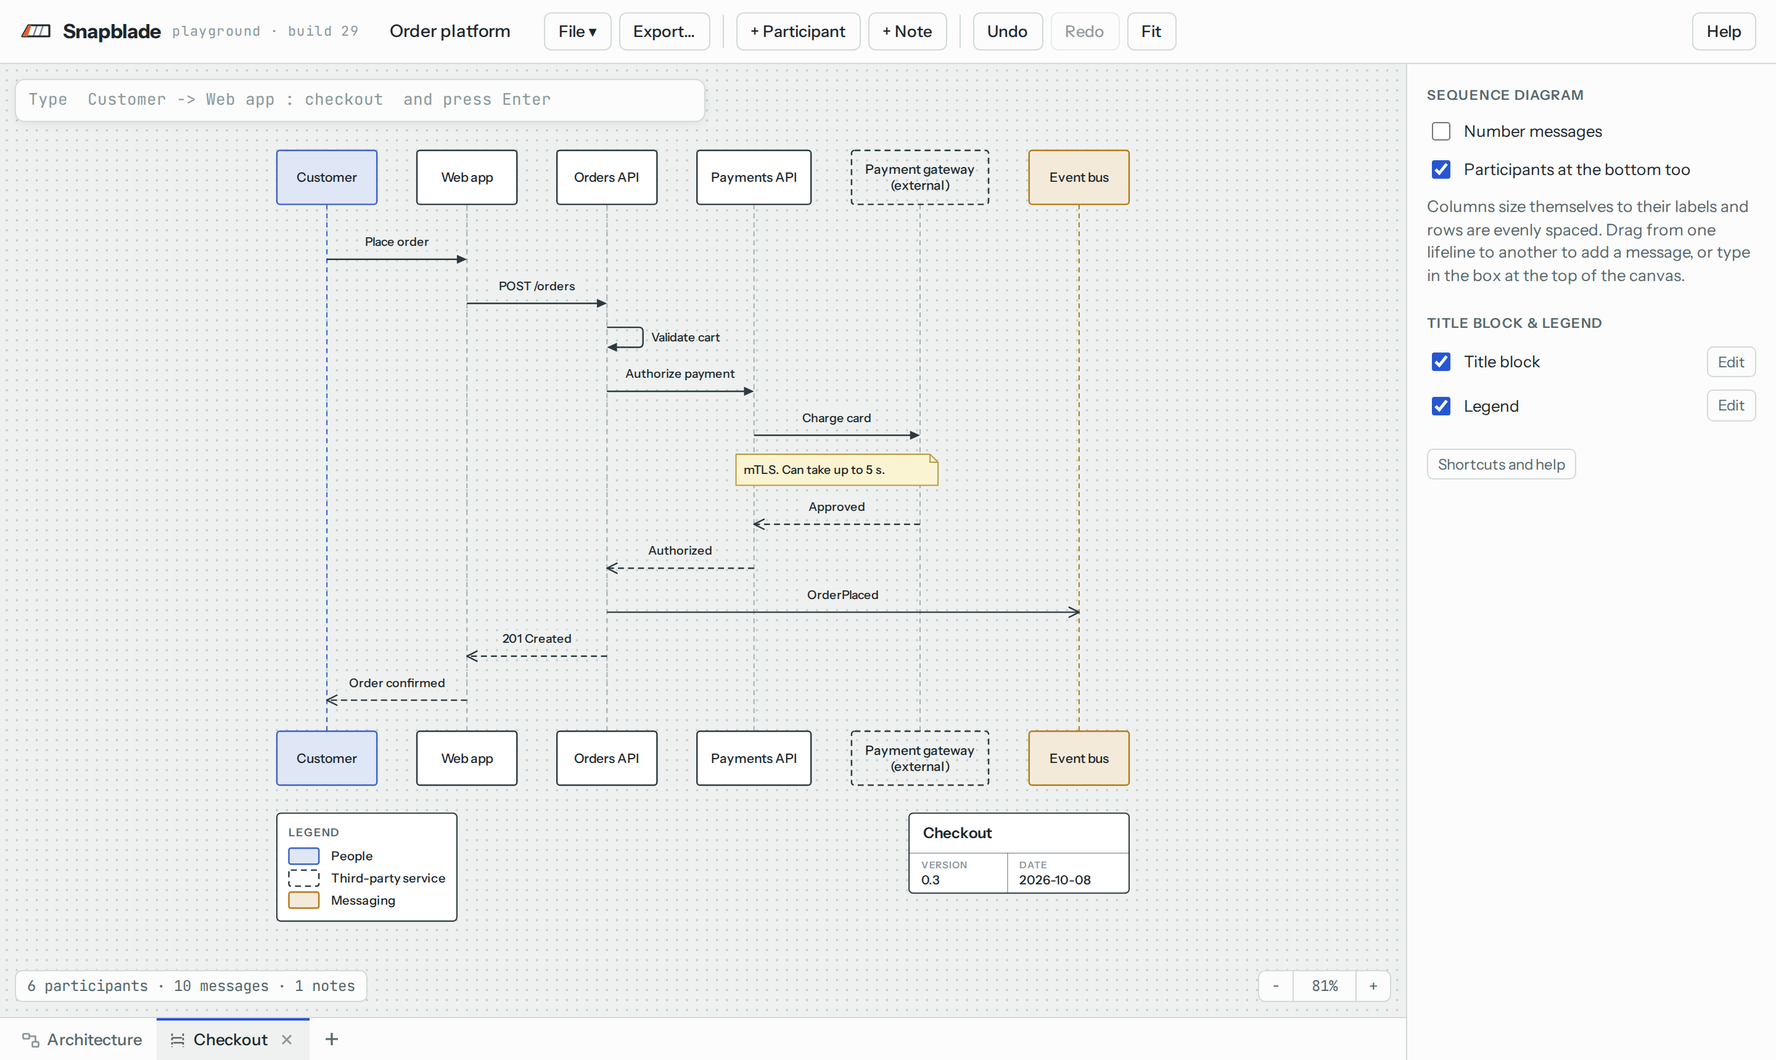
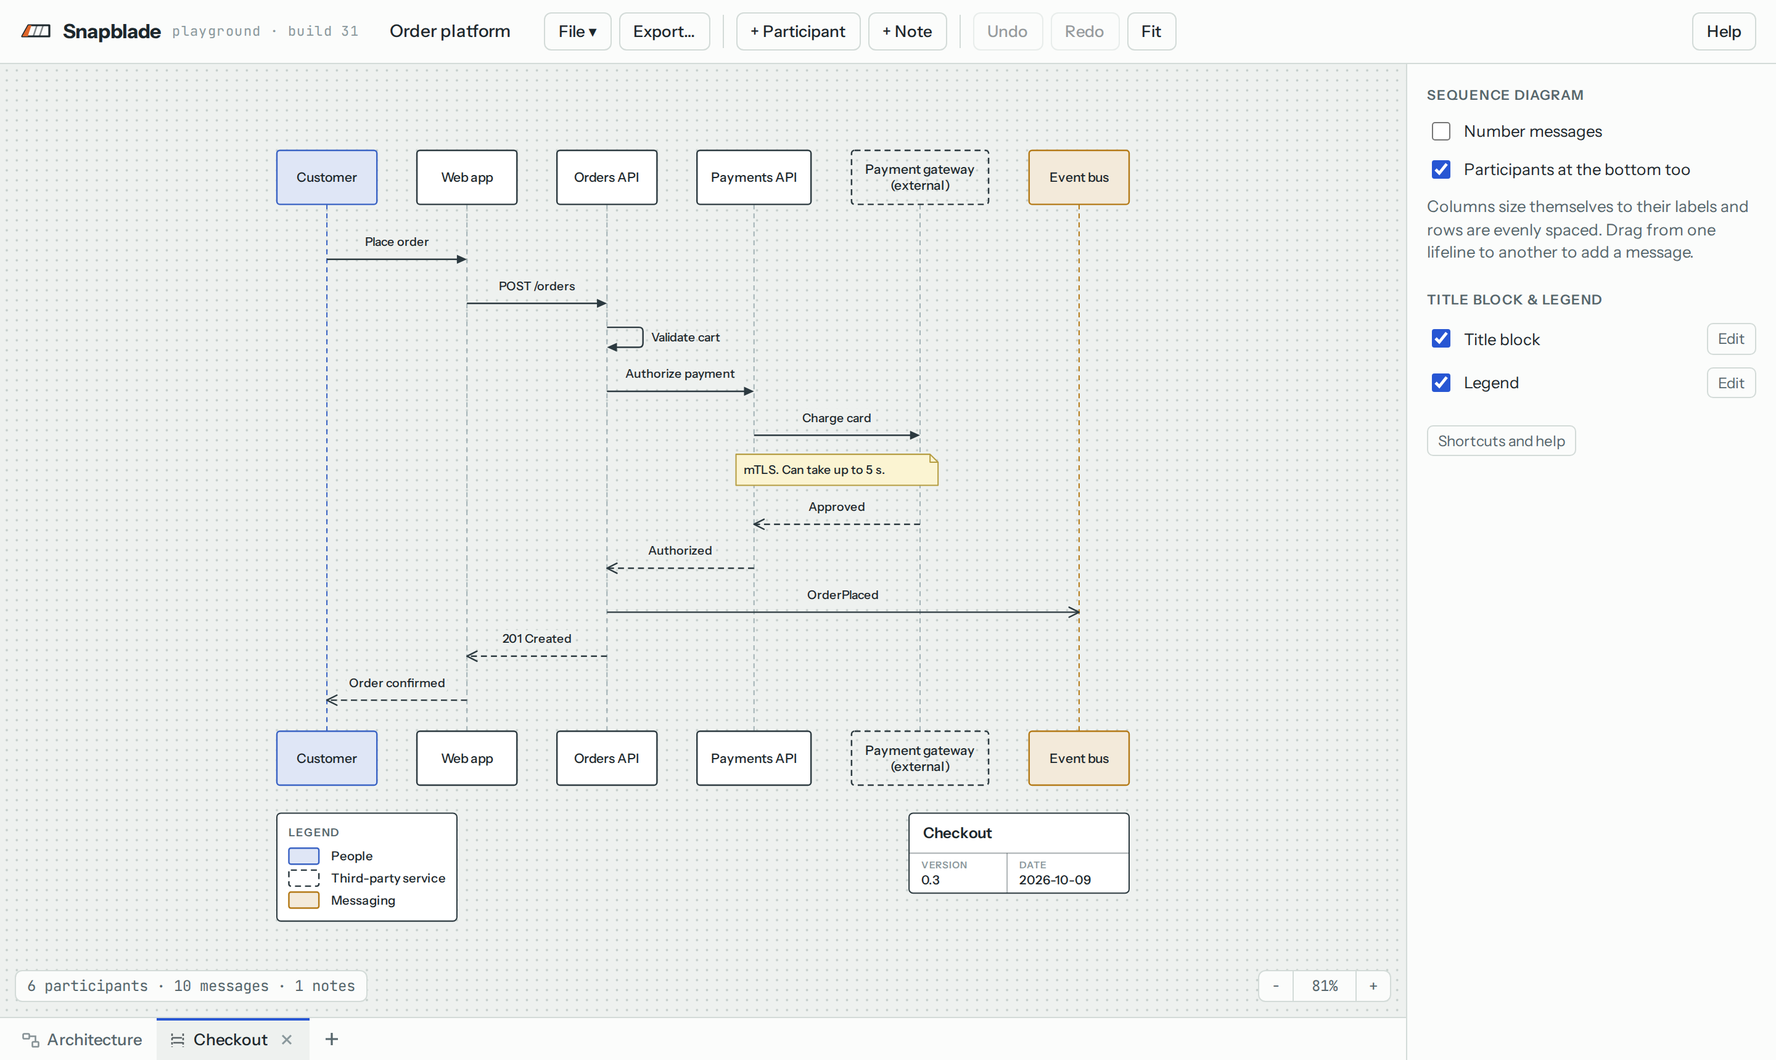
Park the sequence quick-entry box
Sequence diagrams are built with the mouse for now: + Participant or
double-click for participants, drag between lifelines for messages.
The PlantUML quick-entry box and its parser are removed until text
input gets proper focus. Help, README and the sequence screenshot
updated; tests that used the box now use the mouse. Build 31.

Changed region(s): [[0.7812, 0.2465, 0.9375, 0.4622], [0.0, 0.0924, 0.3125, 0.1233], [0.9688, 0.3081, 1.0, 0.4006]]

diff --git a/index.html b/index.html
@@ -271,13 +271,6 @@ dl.keys dd { margin: 0; }
 .n-text { font: 500 12px var(--ui); fill: var(--ink); pointer-events: none; }
 .s-gap { stroke: var(--accent); stroke-width: 2; stroke-dasharray: 6 4; vector-effect: non-scaling-stroke; pointer-events: none; }
 .ghost { opacity: .35; }
-.quick { position: absolute; left: 12px; top: 12px; width: min(560px, calc(100% - 24px)); z-index: 4; }
-.quick textarea {
-  width: 100%; resize: none; overflow: hidden; display: block; border: 1px solid var(--line); border-radius: 8px; background: var(--panel);
-  color: var(--ink); font: 13px/1.45 var(--mono); font-variant-ligatures: none; padding: 7px 10px; box-shadow: 0 2px 8px rgba(0, 0, 0, .06);
-}
-.quick textarea:focus { outline: none; border-color: var(--accent); box-shadow: 0 0 0 3px var(--accent-soft); }
-.quick textarea::placeholder { color: var(--ink-3); }
 
 /* ---------- title block and legend ---------- */
 .ann { cursor: move; }
@@ -376,7 +369,7 @@ dl.keys dd { margin: 0; }
         <path d="M11 17.5 L14 8.5 M16 17.5 L19 8.5" stroke="currentColor" stroke-width="1.2" opacity=".55"/>
         <path d="M2 17.5 L7 8.5 H9.5 L6.5 17.5 Z" fill="var(--port)"/>
       </svg>
-      Snapblade <span class="tag">playground &middot; build 30</span>
+      Snapblade <span class="tag">playground &middot; build 31</span>
     </div>
     <div class="doc">
       <input id="docName" class="docname" value="Untitled diagram" aria-label="Diagram name" spellcheck="false" autocomplete="off">
@@ -419,8 +412,6 @@ dl.keys dd { margin: 0; }
     <div class="stage" id="stage">
       <svg id="cv" aria-label="Diagram canvas"></svg>
       <textarea id="editor" hidden aria-label="Edit label"></textarea>
-      <div class="quick" id="quick" hidden><textarea id="quickIn" rows="1" spellcheck="false" autocomplete="off" aria-label="Quick entry"
-        placeholder="Type  Customer -> Web app : checkout  and press Enter"></textarea></div>
       <div class="empty-hint" id="emptyHint" hidden>Double-click anywhere to add a box, or drop a .snapblade file here to open it.</div>
       <div class="toast" id="toast" role="status" hidden></div>
       <div class="status" id="status"></div>
@@ -1579,67 +1570,6 @@ function seqRemove(id) {
   } else S.rows = S.rows.filter(r => r.id !== id);
 }
 
-/* Quick entry: PlantUML-style lines. "A -> B : label" (sync), "->>" (async), "-->" (reply), arrows pointing left,
-   "participant", "note left of / right of / over A[, B] : text" (or a block ending in "end note"), "autonumber",
-   "hide footbox" and "title". Participants are matched by name (or alias) and added when new. Lines for things
-   Snapblade doesn't draw yet (activate, alt, loop...) are skipped; anything else is reported back. */
-const ARROW_TYPES = { '->': 'sync', '->>': 'async', '-->': 'reply', '-->>': 'reply' };
-const SEQ_LINE = /^(.+?)\s*(<<--|<--|<<-|<-|-->>|-->|->>|->)\s*([^:]+?)\s*(?::\s?(.*))?$/;
-const SEQ_SKIP = /^(activate|deactivate|destroy|create|return|alt|else|opt|loop|par|and|break|critical|group|end|ref|box|autoactivate|skinparam|show|hide|newpage|delay|rect|over)\b|^(==|\.\.\.|\|\|\|)/i;
-function seqEnter(text, after = null) {
-  const out = { rows: [], parts: 0, skipped: 0, errors: [] };
-  const unq = s => s.trim().replace(/^"(.*)"$/, '$1').trim(), unesc = s => String(s || '').replace(/\\n/g, '\n');
-  const find = s => { const low = unq(s).toLowerCase(); return S.parts.find(p => oneLine(p.label).toLowerCase() === low) || S.parts.find(p => p.id.toLowerCase() === low); };
-  const make = (label, alias) => {
-    if (S.parts.length >= MAX_PARTS) throw new Error(`a diagram holds at most ${MAX_PARTS} participants`);
-    const p = { id: isId(alias) && !seqItem(alias) && !S.nodes.some(n => n.id === alias) ? alias : nid('p'), kind: 'participant', label };
-    S.parts.push(p); out.parts++;
-    return p;
-  };
-  const part = s => { const n = unq(s); if (!n) throw new Error('a participant has no name'); return find(n) || make(n); };
-  let at = after != null && S.rows.some(r => r.id === after) ? S.rows.findIndex(r => r.id === after) + 1 : S.rows.length;
-  const add = row => {
-    if (S.rows.length >= MAX_ROWS) throw new Error(`a diagram holds at most ${MAX_ROWS} messages and notes`);
-    seqInsert(row, at++); out.rows.push(row.id);
-  };
-  const lines = String(text).split(/\r?\n/).slice(0, 5000);
-  for (let i = 0; i < lines.length; i++) {
-    const line = lines[i].trim(), low = line.toLowerCase();
-    let m;
-    try {
-      if (!line || line.startsWith("'") || line.startsWith('@') || low === 'sequencediagram') continue;
-      if (/^autonumber\b/.test(low)) S.settings.autonumber = true;
-      else if (low === 'hide footbox') S.settings.footbox = false;
-      else if ((m = line.match(/^title\s+(.+)$/i))) { S.title.title = unesc(m[1]).trim(); S.title.show = true; }
-      else if ((m = line.match(/^(participant|actor|boundary|control|entity|database|collections|queue)\s+(.+)$/i))) {
-        const body = m[2].replace(/\s+(#\S+|<<.*>>)\s*$/, '');
-        let label = unq(body), alias = null, d;
-        if ((d = body.match(/^"([^"]*)"\s+as\s+(\S+)$/i)) || (d = body.match(/^(\S+)\s+as\s+(\S+)$/i))) [label, alias] = [unq(d[1]), d[2]];
-        else if ((d = body.match(/^(\S+)\s+as\s+"([^"]*)"$/i))) [alias, label] = [d[1], d[2]];
-        if (!label) throw new Error('a participant has no name');
-        if (!find(label) && !(alias && find(alias))) make(unesc(label), alias);
-      } else if ((m = line.match(/^note\s+(left|right|over)(?:\s+of)?\s+(.+?)\s*(?::\s?(.*))?$/i))) {
-        let body = m[3];
-        if (body == null) {   // a block: the text runs to "end note"
-          const end = lines.findIndex((l, j) => j > i && /^\s*end\s*note\s*$/i.test(l));
-          if (end < 0) throw new Error('the note has no "end note" line');
-          body = lines.slice(i + 1, end).map(l => l.trim()).join('\n'); i = end;
-        }
-        const side = m[1].toLowerCase(), on = [...new Set(m[2].split(',').map(part).map(p => p.id))].slice(0, side === 'over' ? 2 : 1);
-        add({ id: nid('nt'), kind: 'note', side, on, label: unesc(body) });
-      } else if ((m = line.match(SEQ_LINE))) {
-        let [, a, arrow, b, label] = m;
-        if (arrow.startsWith('<')) { [a, b] = [b, a]; arrow = [...arrow].reverse().join('').replace(/</g, '>'); }
-        if (!unq(a) || !unq(b)) throw new Error('a message needs a participant at each end');
-        const from = part(a), to = part(b);
-        add({ id: nid('m'), from: from.id, to: to.id, type: ARROW_TYPES[arrow], label: unesc(label) });
-      } else if (SEQ_SKIP.test(line)) out.skipped++;
-      else out.errors.push({ line: i + 1, text: lines[i], why: "it isn't a message, note or participant" });
-    } catch (e) { out.errors.push({ line: i + 1, text: lines[i], why: e.message }); }
-  }
-  return out;
-}
-
 /* =====================================================================
    UI
    ===================================================================== */
@@ -2501,7 +2431,7 @@ function seqDiagramPanel() {
     <p class="eyebrow">Sequence diagram</p>
     <label class="check"><input id="f-autonumber" type="checkbox" data-field="autonumber"${st.autonumber ? ' checked' : ''}> Number messages</label>
     <label class="check"><input id="f-footbox" type="checkbox" data-field="footbox"${st.footbox ? ' checked' : ''}> Participants at the bottom too</label>
-    <p class="desc">Columns size themselves to their labels and rows are evenly spaced. Drag from one lifeline to another to add a message, or type in the box at the top of the canvas.</p>
+    <p class="desc">Columns size themselves to their labels and rows are evenly spaced. Drag from one lifeline to another to add a message.</p>
   </section>
   ${annSection()}`;
 }
@@ -2980,7 +2910,7 @@ function fit() {
   let x1 = Infinity, y1 = Infinity, x2 = -Infinity, y2 = -Infinity;
   const B = isSeq() && seqLayout().bounds, shapes = B ? [{ x: B.x1, y: B.y1, w: B.x2 - B.x1, h: B.y2 - B.y1 }] : S.nodes;
   for (const n of [...shapes, ...(lastGeom.annots || [])]) { x1 = Math.min(x1, n.x); y1 = Math.min(y1, n.y); x2 = Math.max(x2, n.x + n.w); y2 = Math.max(y2, n.y + n.h); }
-  // A sequence diagram starts at the top, below the quick-entry box.
+  // A sequence diagram starts at the top.
   const pad = 48, top = B ? 70 : pad, k = Math.max(0.2, Math.min((r.width - 2 * pad) / (x2 - x1), (r.height - top - pad - 30) / (y2 - y1), 1.25));
   view = { k, x: (r.width - (x2 - x1) * k) / 2 - x1 * k, y: B ? top - y1 * k : (r.height - 30 - (y2 - y1) * k) / 2 - y1 * k };
   render();
@@ -3325,8 +3255,8 @@ function updateDocUi() {
 function syncTypeUi() {
   const seq = isSeq();
   for (const id of ['addBox', 'addGroup', 'modeSeg', 'modeLbl']) document.getElementById(id).hidden = seq;
-  for (const id of ['addPart', 'addNote', 'quick']) document.getElementById(id).hidden = !seq;
-  document.getElementById('emptyHint').textContent = seq ? 'Double-click to add a participant, or type a line such as  Customer -> Web app : checkout  in the box above.'
+  for (const id of ['addPart', 'addNote']) document.getElementById(id).hidden = !seq;
+  document.getElementById('emptyHint').textContent = seq ? 'Double-click to add a participant, then drag from one lifeline to another to add a message.'
     : 'Double-click anywhere to add a box, or drop a .snapblade file here to open it.';
 }
 // Version 2 files hold tabs; version 1 files (one diagram) still open.
@@ -3409,7 +3339,6 @@ async function newDiagram(type) {
   fileHandle = null; doc = { name: isSeq() ? 'Untitled sequence diagram' : 'Untitled diagram', dirty: false };
   sel = null; multi = []; seqNext = null; view = startView();
   syncTypeUi(); renderTabs(); refresh(true, false); save(false); updateDocUi();
-  if (isSeq()) document.getElementById('quickIn').focus();
 }
 // Put a sample back (undoable). The "Things to try" steps in Help refer to them.
 function loadSample(seq) {
@@ -3518,8 +3447,7 @@ function guideHtml() {
       <li><b>+ Note</b> adds a <b>Note</b> below the selected row. Its <b>Position</b> is ${b(labels(NOTE_SIDES))} its <b>Participant</b>; an Over note <b>Spans to</b> a second one. A note takes its own row, so nothing overlaps.</li>
       <li>The <b>Participant</b> panel has <b>Move left</b> and <b>Move right</b>; <b>Delete participant</b> also deletes its messages and notes. Participants, messages and notes take colors and patterns like boxes and connectors, and get legend rows the same way.</li>
       <li><b>Duplicate</b> (Ctrl+D) puts a copy of a message, note or participant right after it. <b>Delete message</b>, <b>Delete note</b>, <b>Delete participant</b> or the Delete key removes one.</li>
-      <li>The <b>Sequence diagram</b> settings: <b>Number messages</b>, and <b>Participants at the bottom too</b>.</li>
-      <li>Type in the box at the top of the canvas (or just start typing with nothing selected) and press Enter. It reads PlantUML: <code>A -&gt; B : label</code> (sync), <code>-&gt;&gt;</code> (async), <code>--&gt;</code> (reply), arrows pointing left, <code>participant "Long name" as X</code>, <code>note left of A : text</code> (or <code>right of</code>, <code>over A, B</code>, or a note block ending in <code>end note</code>), <code>autonumber</code>, <code>hide footbox</code> and <code>title</code>. New names become participants. Lines go in below the selected row. Paste a whole PlantUML diagram to bring it in; lines for things Snapblade doesn't draw yet (activate, alt, loop) are skipped, and lines it can't read stay in the box.</li></ul>`],
+      <li>The <b>Sequence diagram</b> settings: <b>Number messages</b>, and <b>Participants at the bottom too</b>.</li></ul>`],
     ['tabs', 'Tabs', `<p>One file can hold several diagrams, each on its own tab along the bottom of the canvas: an architecture view and the sequence diagrams that go with it, say.</p><ul>
       <li><b>Add a tab</b> (the + at the end of the tabs) offers a <b>Box diagram</b>, a <b>Sequence diagram</b>, or <b>Duplicate this tab</b>. A new tab goes right after the open one.</li>
       <li>Click a tab to open it. Double-click the open tab (or press F2 on it) to rename it; drag a tab sideways to move it. The arrow keys move between tabs when one has the focus.</li>
@@ -3563,7 +3491,6 @@ function helpHtml() {
       <dt>Ctrl+Shift+C / V</dt><dd>Copy a shape's or connector's colors, paste them onto the selection</dd>
       <dt>Wheel</dt><dd>Zoom toward the cursor (Shift+wheel scrolls sideways)</dd>
       <dt>Right-drag</dt><dd>Pan (middle-drag or Space+drag also work)</dd>
-      <dt>Typing</dt><dd>In a sequence diagram with nothing selected, goes to the quick-entry box (A -&gt; B : label, then Enter)</dd>
       <dt>Enter</dt><dd>After labeling a new message: click the lifeline the next one goes to. Esc stops</dd>
       <dt>F2 on a tab</dt><dd>Rename it. ←/→ move between tabs</dd>
       <dt>F1 / ?</dt><dd>Open this help (? only with nothing selected)</dd>
@@ -3587,7 +3514,7 @@ function helpHtml() {
     <ol class="try">
       <li>Drag from the <b>Customer</b> lifeline to <b>Web app</b> between two messages. Type a label, press Enter, then click the next lifeline.</li>
       <li>Drag <b>Validate cart</b> down a few rows, or select it and press the arrow keys.</li>
-      <li>Click in the box at the top of the canvas and type <code>Orders API --&gt; Customer : email</code>, then Enter.</li>
+      <li>Select <b>Payments API</b> and click <b>+ Note</b>: a note goes right of its lifeline, ready to type.</li>
       <li>Select a message and switch its Kind between Sync, Async and Reply.</li>
       <li>Click the + at the end of the tabs and add a Box diagram tab: one file can hold the architecture and its sequence diagrams. Double-click a tab to rename it.</li>
     </ol>
@@ -3679,7 +3606,6 @@ function addTab(kind) {
   BOOK.pages.splice(BOOK.active + 1, 0, { name, S: d, undo: [], redo: [], view: copy ? { ...view } : (d.type ? { x: 60, y: 90, k: 1 } : { x: 40, y: 40, k: 1 }) });
   switchTab(BOOK.active + 1);
   save();
-  if (isSeq() && !copy) document.getElementById('quickIn').focus();
 }
 // Deleting a tab can't be undone (undo is per tab), so a tab with something on it asks first.
 async function deleteTab(i) {
@@ -4099,30 +4025,6 @@ async function copyExport(o) {
   }
 }
 
-/* ---------- quick entry (sequence diagrams) ---------- */
-function fitQuick() {
-  const q = document.getElementById('quickIn');
-  q.style.height = 'auto'; q.style.height = Math.min(q.scrollHeight + 2, 180) + 'px'; q.style.overflowY = q.scrollHeight > 178 ? 'auto' : 'hidden';
-}
-function focusQuick(text = '') {
-  const q = document.getElementById('quickIn');
-  q.focus(); q.value += text; q.setSelectionRange(q.value.length, q.value.length); fitQuick();
-}
-// Add what the box says, below the selected row (or at the end), as one undo step. Lines it couldn't read stay in the box.
-function quickEnter() {
-  const q = document.getElementById('quickIn'), text = q.value;
-  if (!text.trim() || !isSeq()) return;
-  const before = snapshot(), after = sel?.type === 'seq' && S.rows.some(r => r.id === sel.id) ? sel.id : null;
-  const r = seqEnter(text, after), lines = text.split(/\r?\n/);
-  keepUndo(before);
-  if (r.rows.length) sel = { type: 'seq', id: r.rows[r.rows.length - 1] };
-  seqNext = null;
-  q.value = r.errors.map(e => lines[e.line - 1]).join('\n'); fitQuick();
-  refresh(true, true);
-  if (r.errors.length) toast(`Couldn't read ${r.errors.length > 1 ? r.errors.length + ' lines' : 'that line'}: ${r.errors[0].why}. A message looks like  A -> B : label`, true);
-  else if (r.skipped) toast(`Skipped ${r.skipped} line${r.skipped > 1 ? 's' : ''} Snapblade doesn't draw yet (activate, alt, loop and the like).`);
-}
-
 function init() {
   svg = document.getElementById('cv'); stage = document.getElementById('stage'); panel = document.getElementById('panel');
   statusEl = document.getElementById('status'); editor = document.getElementById('editor');
@@ -4231,12 +4133,6 @@ function init() {
   document.getElementById('addGroup').addEventListener('click', () => addNode('group'));
   document.getElementById('addPart').addEventListener('click', () => addPart());
   document.getElementById('addNote').addEventListener('click', addSeqNote);
-  const quickIn = document.getElementById('quickIn');
-  quickIn.addEventListener('input', fitQuick);
-  quickIn.addEventListener('keydown', ev => {
-    if (ev.key === 'Enter' && !ev.shiftKey) { ev.preventDefault(); quickEnter(); }
-    if (ev.key === 'Escape') { ev.preventDefault(); quickIn.blur(); }
-  });
   document.getElementById('undoBtn').addEventListener('click', () => restore(undoStack, redoStack));
   document.getElementById('redoBtn').addEventListener('click', () => restore(redoStack, undoStack));
   document.getElementById('fitBtn').addEventListener('click', fit);
@@ -4268,7 +4164,6 @@ function init() {
     else if (k === 'Escape') { seqNext = null; select(null); render(); }
     else if ((k === 'F2' || k === 'Enter') && sel) { ev.preventDefault(); startEditing(); }
     else if (sel && sel.type !== 'annot' && k.length === 1 && k !== ' ' && !mod && !ev.altKey) { ev.preventDefault(); startEditing(k); }
-    else if (isSeq() && !sel && k.length === 1 && k !== ' ' && !mod && !ev.altKey) { ev.preventDefault(); focusQuick(k); }
     else if (k === ' ') { spaceDown = true; }
     else if (sel?.type === 'seq' && k.startsWith('Arrow')) { ev.preventDefault(); seqNudge(k); }
     else if (sel?.type === 'node' && k.startsWith('Arrow')) {

diff --git a/README.md b/README.md
@@ -6,7 +6,7 @@
 
 You place the boxes. Snapblade keeps the connectors clean: anchor points evenly spaced along each side, lines straight wherever the boxes allow, bends centered in the gap between boxes, and parallel connectors bundled without crossing. When you resize or move something, everything re-tidies, instead of leaving you to re-glue a dozen arrows by hand.
 
-Sequence diagrams go further: you never place anything. List the participants and the messages, by dragging between lifelines or typing PlantUML-style lines, and Snapblade sizes the columns and spaces the rows. Keep the architecture and its sequence diagrams together as tabs in one file.
+Sequence diagrams go further: you never place anything. Add the participants, drag between lifelines for the messages, and Snapblade sizes the columns and spaces the rows. Keep the architecture and its sequence diagrams together as tabs in one file.
 
 ![Snapblade showing an application architecture diagram](docs/screenshot.png)
 
@@ -25,7 +25,7 @@ Manual tools (Visio, draw.io, Lucidchart) give you full control, and then you sp
 - **Shapes that can't overlap.** Shapes side by side stay at least 20 px apart, so connectors always have room between them. A dragged shape stops at the wall and slides along it, a resized edge stops at it, and a container that grows pushes its neighbors out of the way. Hold Alt to overlap anyway, or turn it off for the diagram.
 - **Connector labels.** Placed near the start, center or end, and kept clear of boxes, other labels and other connectors.
 - **Arrange.** Line a selection up as a row or a column (tops, middles, bottoms, lefts, centers or rights) with kept, even or fixed spacing, without ever stacking shapes on top of each other. Straighten moves shapes just enough that their connectors run straight.
-- **Sequence diagrams.** Participants and messages laid out automatically: columns as wide as their labels need, rows evenly spaced. Drag from one lifeline to another to add a message at that row, drag rows and participants to reorder, and press Enter after a label to go straight on to the next message. Sync, async and reply messages, self-messages, notes beside or across lifelines, message numbering. A quick-entry box reads PlantUML (`A -> B : label`, `participant`, `note`, `autonumber`), so you can type a flow or paste an existing `@startuml` diagram.
+- **Sequence diagrams.** Participants and messages laid out automatically: columns as wide as their labels need, rows evenly spaced. Drag from one lifeline to another to add a message at that row, drag rows and participants to reorder, and press Enter after a label to go straight on to the next message. Sync, async and reply messages, self-messages, notes beside or across lifelines, message numbering.
 - **Tabs.** One file holds several diagrams, box or sequence, on tabs along the bottom. Add, duplicate, rename and drag tabs to reorder; each keeps its own undo history, view, title block and legend. Copy and paste work between tabs.
 - **Styling.** Line and fill colors from presets, a picker, hex or RGB, with fills that pair automatically as a tint of the line color. Solid, dashed and dotted lines. Light and dark themes.
 - **Fast editing.** Multi-select, same size, match colors, copy and paste style, copy, paste, duplicate, undo and redo.
@@ -43,7 +43,7 @@ Use it at **https://mmunchinski.github.io/snapblade/**, or open `index.html` fro
 | Add a box | Double-click empty canvas, or **+ Box** |
 | Connect two boxes | Hover a box, drag one of its **+** handles onto another box |
 | Start a sequence diagram | File > New sequence diagram, or **+** on the tab strip |
-| Add a message | Drag from one lifeline to another, or type `A -> B : label` in the box at the top and press Enter |
+| Add a message | Drag from one lifeline to another, type the label and press Enter; then click the lifeline the next one goes to |
 | Rename | Double-click, press F2, or select and start typing |
 | Select several | Drag a box on empty canvas, or Shift/Ctrl-click |
 | Pan / zoom | Right-drag (or middle-drag, or Space+drag) / mouse wheel |
@@ -61,7 +61,7 @@ npx playwright install chromium   # first time only
 npm test                          # layout tests (Node) + interaction tests (headless Chromium)
 ```
 
-- `tests/layout.test.mjs` exercises the core without a browser: anchors, routing, bundling, labels, arrange, hard walls, sequence layout and quick entry, the file format and the checks every opened file goes through.
+- `tests/layout.test.mjs` exercises the core without a browser: anchors, routing, bundling, labels, arrange, hard walls, sequence layout, the file format and the checks every opened file goes through.
 - `tests/browser.test.mjs` drives the real app with mouse and keyboard input, including files, exports, tabs and hostile files.
 
 ## Privacy
